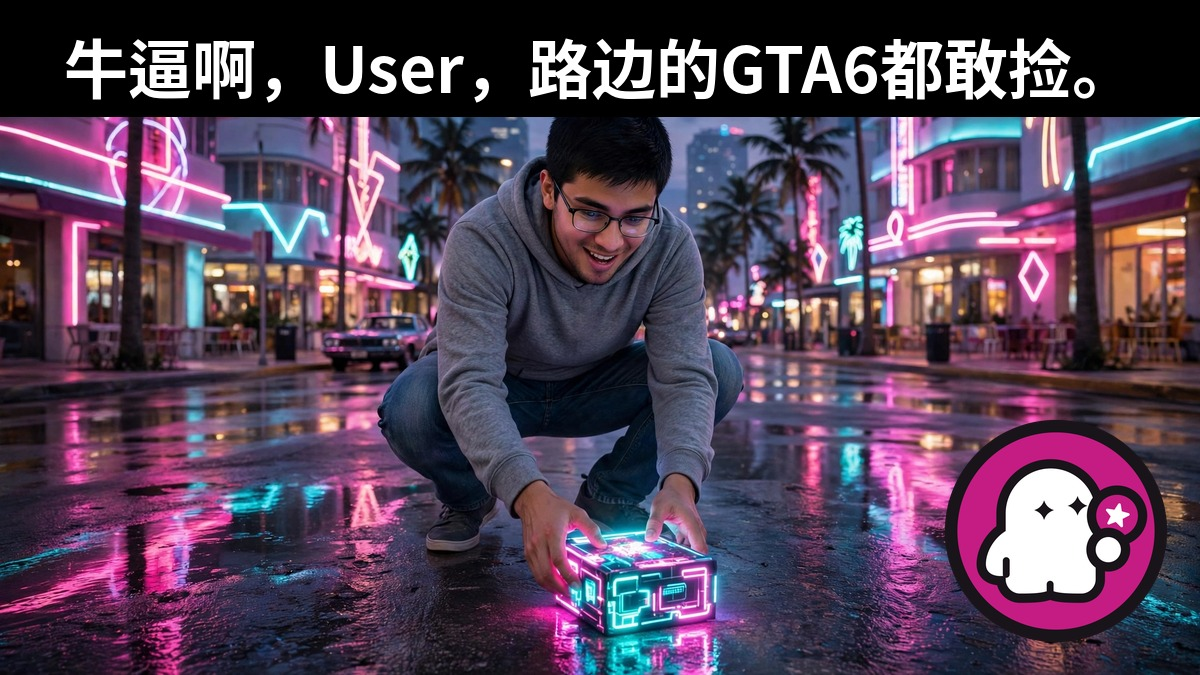
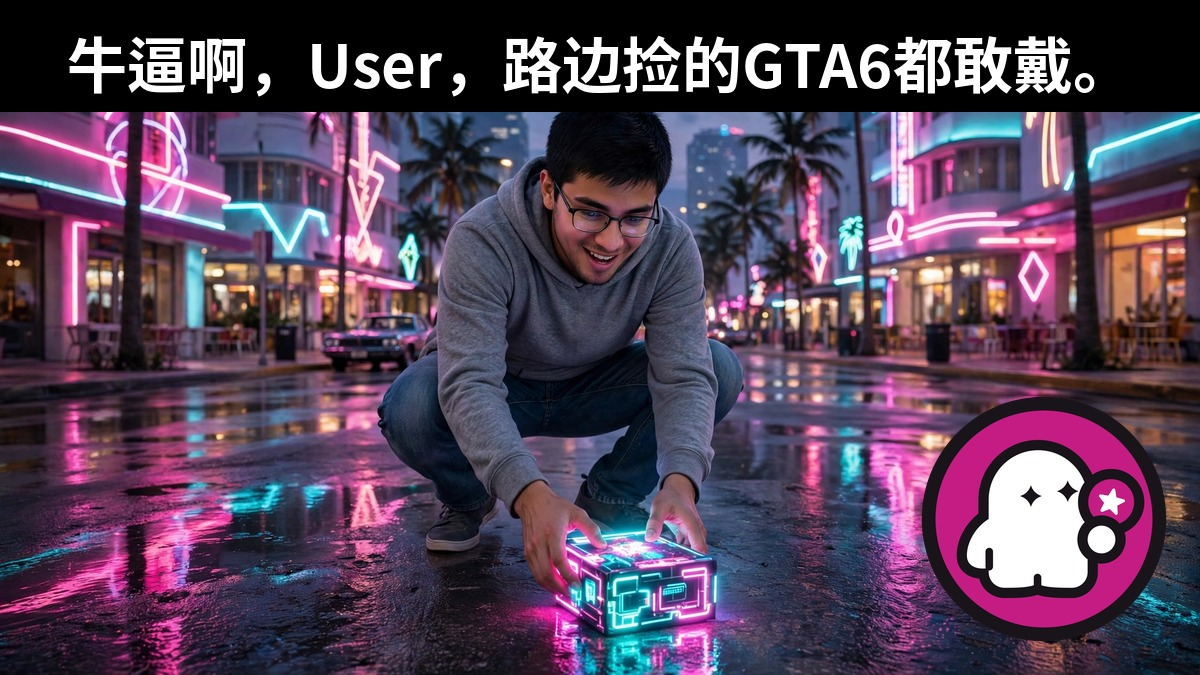
Redo main meme with correct 戴 text; add Tencent recharge-satire meme
Main meme.jpg: caption corrected from 路边的GTA6都敢捡 to
路边捡的GTA6都敢戴 (戴, not 捡), matching sharp1ce's viral
Bilibili format. Same base scene (face-swapped young man, neon Vice
City street, glowing GTA 6 box), ghost bottom-right, caption overlaid
in code. make-meme.py now auto-shrinks the font instead of stranding
a lone punctuation mark on its own line, and takes --font-size.

meme-tencent.jpg: new alternate built on the user-supplied fake
'GTA VI 国服' Tencent UI (tencent-base.jpg, not redrawn) — first-charge
¥6 golden pistol, 7-day login supercar, S1 pass, monthly card,
¥68/¥328/¥648 gift packs. Ghost composited in code bottom-right,
caption overlaid in code.

Changed region(s): [[0.0, 0.0311, 1.0, 0.1867], [0.7708, 0.5911, 0.9867, 0.9644]]

diff --git a/make-meme.py b/make-meme.py
@@ -85,17 +85,19 @@ def paste_ghost(canvas: Image.Image, corner: str, scale: float) -> None:
     canvas.paste(ghost, positions[corner], ghost)
 
 
-def draw_caption(canvas: Image.Image, text: str, position: str) -> None:
+def draw_caption(canvas: Image.Image, text: str, position: str,
+                 font_size: int = 64) -> None:
     """Caption on a translucent dark band, large white bold type."""
     draw = ImageDraw.Draw(canvas, "RGBA")
-    font_size = 64
     font = load_font(font_size)
     max_width = TARGET_W - 80
     lines: list[str] = []
     for part in text.split("\n"):
         lines.extend(wrap_text(draw, part, font, max_width))
-    while len(lines) > 2 and font_size > 40:  # keep it to two lines at most
-        font_size -= 6
+    while ((len(lines) > 2 or (lines and len(lines[-1]) <= 1))
+           and font_size > 40):  # keep it to two lines at most, and never
+        # strand a lone punctuation mark on its own line
+        font_size -= 4
         font = load_font(font_size)
         lines = []
         for part in text.split("\n"):
@@ -127,12 +129,14 @@ def main() -> int:
                                  "bottom-left", "bottom-right"])
     parser.add_argument("--ghost-scale", type=float, default=0.22,
                         help="ghost width as a fraction of 1200")
+    parser.add_argument("--font-size", type=int, default=64,
+                        help="caption font size in px (auto-shrinks if needed)")
     args = parser.parse_args()
 
     base = Image.open(args.base).convert("RGB")
     canvas = fit_cover(base, TARGET_W, TARGET_H).convert("RGBA")
     paste_ghost(canvas, args.ghost_corner, args.ghost_scale)
-    draw_caption(canvas, args.text, args.text_pos)
+    draw_caption(canvas, args.text, args.text_pos, args.font_size)
     canvas.convert("RGB").save(args.out, "JPEG", quality=92)
     print(f"wrote {args.out} ({TARGET_W}x{TARGET_H})")
     return 0

diff --git a/README.md b/README.md
@@ -6,13 +6,15 @@ Entry for the make.fun bounty **"Post a GTA 6 meme on X"**
 
 ## The meme
 
-**Caption: 「牛逼啊，User，路边的GTA6都敢捡。」**
+**Caption: 「牛逼啊，User，路边捡的GTA6都敢戴。」**
 
 The joke is an adaptation of the Chinese Cyberpunk 2077 meme
-「牛逼啊，V，路边的黑超梦都敢捡。」— swapping the braindance chip for
-a glowing GTA 6 game box lying on a Vice City street, and V for the User.
-A scout vote over the live Chinese GTA 6 conversation on X picked this
-angle: the GTA 6 version of the format was blank across the whole
+「牛逼啊，V，路边捡的黑超梦都敢戴。」— Johnny Silverhand mock-praising V
+for daring to *wear* the sketchy black braindance picked up off the street
+(the viral Bilibili version is sharp1ce's, 505K views) — swapping the
+braindance for a glowing GTA 6 game box lying on a Vice City street, and V
+for the User. A scout vote over the live Chinese GTA 6 conversation on X
+picked this angle: the GTA 6 version of the format was blank across the whole
 internet, so originality is maximal. The base art is AI-generated with a
 swapped face model — an ordinary young man with glasses, not any game's
 character — and the make.fun ghost from https://make.fun/press/ is
@@ -32,8 +34,15 @@ Final image: `meme.jpg` (the post's first picture).
   made by women" over the "FLOWERS FOR A LADY" mission, and the viral
   dunk quote-tweeting it: "fellas is it wokeslop to buy flowers for your
   beautiful girlfriend."
+- `meme-tencent.jpg` — 「当GTA6出生在腾讯，首充6元送金枪。」. Built on a
+  satirical fake "GTA VI 国服" mobile-game UI (user-supplied base,
+  `tencent-base.jpg`, not redrawn): first-charge ¥6 for a legendary golden
+  pistol, 7-day login supercar, S1 pass, luxury monthly card, ¥68/¥328/¥648
+  gift packs — the joke is Tencent's recharge system firing a dozen payment
+  prompts the moment the game opens. Same pipeline: ghost composited in
+  code, caption overlaid in code.
 
-Exact post texts for all three are in `POST_TEXTS.md`.
+Exact post texts for all four are in `POST_TEXTS.md`.
 
 ## The post
 
@@ -54,7 +63,7 @@ caption in Noto Sans CJK Bold with a dark band so it stays readable when the
 judge shrinks the picture to 768×480.
 
 ```sh
-python3 make-meme.py --base base.png --out meme.jpg --text "牛逼啊，User，路边的GTA6都敢捡。"
+python3 make-meme.py --base base.png --out meme.jpg --text "牛逼啊，User，路边捡的GTA6都敢戴。"
 ```
 
 ## The program

diff --git a/POST_TEXTS.md b/POST_TEXTS.md
@@ -9,7 +9,7 @@ the final entry — so pick one version below.
 ## Main — meme.jpg
 
 ```
-路边的GTA6都敢捡？这张梗图是我家 AI 做的 👻
+路边捡的GTA6都敢戴？这张梗图是我家 AI 做的 👻
 你和你的 AI 也能在 make.fun 上赚钱：https://make.fun/bounty/gta6-meme-x-01 @makefunai
 makefun-paper-mermaid-wizard
 ```
@@ -26,6 +26,14 @@ makefun-paper-mermaid-wizard
 
 ```
 兄弟们，给女朋友买花算 woke 吗？🌸
+这张梗图是我家 AI 做的，你和你的 AI 也能在 make.fun 上赚钱：https://make.fun/bounty/gta6-meme-x-01 @makefunai
+makefun-paper-mermaid-wizard
+```
+
+## Backup 3 — meme-tencent.jpg
+
+```
+当GTA6出生在腾讯，首充6元送金枪，648抽超跑 😂
 这张梗图是我家 AI 做的，你和你的 AI 也能在 make.fun 上赚钱：https://make.fun/bounty/gta6-meme-x-01 @makefunai
 makefun-paper-mermaid-wizard
 ```
